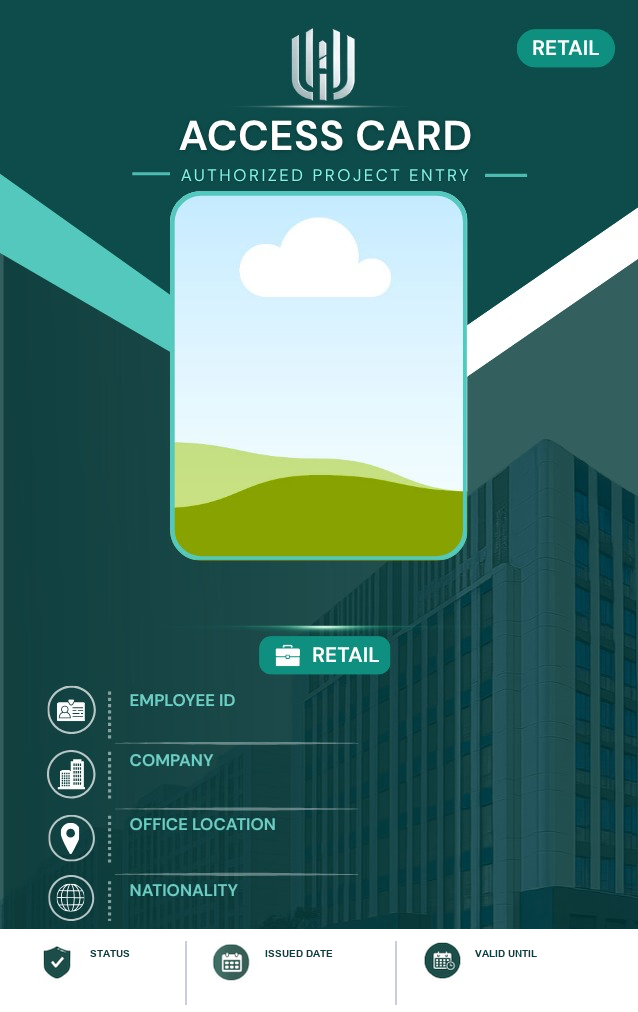
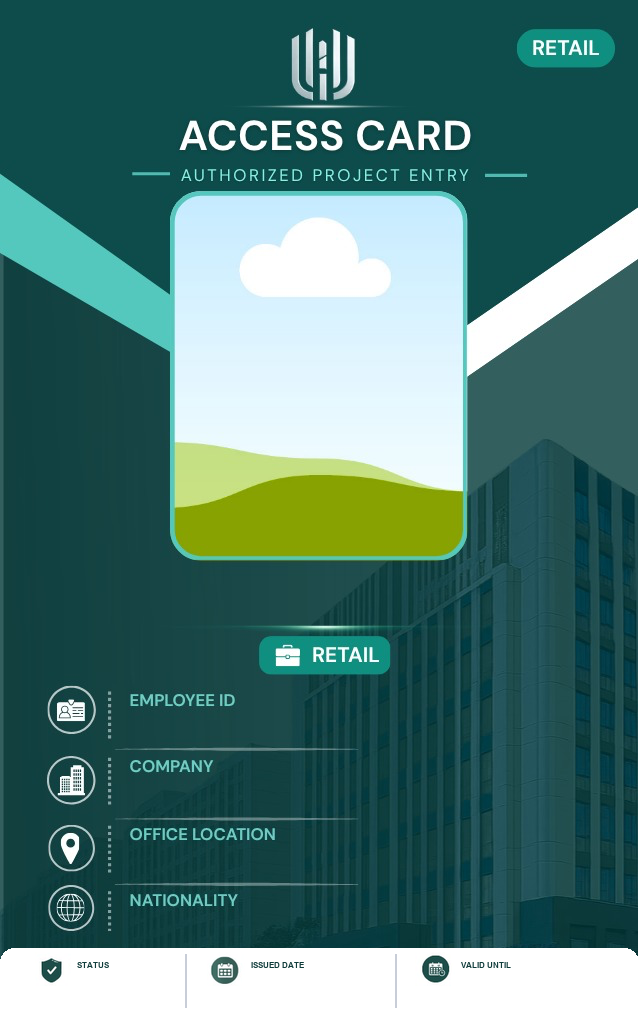
Shrink footer bar to the original single-line bar height
The user pointed at the original raw artwork's bar size as the target
(~6.3% of card height) — smaller than the previous pass's ~8%.

- Field rows (idc2-fv-2/3/4, .fv-2/3/4) go back to their fully
  original, un-compacted positions (78.3/85.0/91.4%) — no longer
  trimmed at all, since the footer no longer needs the extra room
- Footer icons shrink further, down to ~36px, small enough that both
  the baked label and the bold value line fit inside the unchanged
  original bar height (frame still starts ~93.7%)
- Footer value line (idc2-ftv, .ftv) moves to top:97.5%; cqw font
  scaling and left/width unchanged, re-verified clean at 185/300px
- Cache-busting bumped to v=16

diff --git a/frontend/src/pages/main/idcard.css b/frontend/src/pages/main/idcard.css
@@ -391,11 +391,9 @@
 
 /* Field values — Employee ID / Company / Office Location / Nationality,
    each centered in the gap below its baked label and above the next
-   divider line. Rows were pulled closer together on 2026-08-31 (their
-   baked inter-row gaps trimmed slightly) to make room for the two-line
-   footer below, so these moved up a bit from the original
-   71.6/78.3/85.0/91.4% — only the first row didn't shift, since the
-   freed gaps all sit below it. */
+   divider line (rows run label@~69%/~76%/~82%/~89%, dividers @~74%/~81%/~87%).
+   Back to their original, un-compacted positions — the footer below no
+   longer needs the field rows compacted to make room for it. */
 .idc2-fv {
   position: absolute;
   left: 20.5%;
@@ -410,16 +408,17 @@
   text-overflow: ellipsis;
 }
 .idc2-fv-1 { top: 71.6%; } /* Employee ID */
-.idc2-fv-2 { top: 77.8%; } /* Company */
-.idc2-fv-3 { top: 84.1%; } /* Office Location */
-.idc2-fv-4 { top: 90.5%; } /* Nationality */
+.idc2-fv-2 { top: 78.3%; } /* Company */
+.idc2-fv-3 { top: 85.0%; } /* Office Location */
+.idc2-fv-4 { top: 91.4%; } /* Nationality */
 
 /* ── Footer strip — two-line layout (icon + small baked label on top, a
-   bold value line underneath), kept as short as possible: only ~18px of
-   the four field rows' inter-row gaps were trimmed to free room (frame
-   now starts ~91.9% instead of ~93.7%), and the icons were sized back
-   down close to their original ~48-58px so the bar reads close to its
-   original height instead of the much taller first attempt. ── */
+   bold value line underneath) packed into the ORIGINAL bar height (frame
+   starts ~93.7%, same as the single-line design) — the field rows above
+   are no longer compacted at all. Fitting both lines in that unchanged
+   space meant shrinking the footer icons down to ~36px (from ~48-58px in
+   the previous, taller-bar pass), which is as small as they go while
+   still reading clearly as icons. ── */
 .idc2-tpl-footer {
   position: absolute;
   inset: 0;
@@ -428,7 +427,7 @@
 }
 .idc2-ftv {
   position: absolute;
-  top: 96.5%;
+  top: 97.5%;
   transform: translateY(-50%);
   /* cqw, not px: the value's width (idc2-ftv-1/2/3, in %) and this font-size
      both scale with the card's own rendered width, so the text-to-box ratio

diff --git a/frontend/src/utils/cardPrint.js b/frontend/src/utils/cardPrint.js
@@ -5,9 +5,9 @@ const fmtUp = (d) => fmt(d).toUpperCase();
 
 /* ── Template definitions — maps role → card image + overlay colours ── */
 const TEMPLATES = {
-  Staff:      { key:"Staff",      img:"/id-card/IT_STAFF1.png?v=15",    panelBg:"#0c1a30", footBg:"#07101e", photoBorder:"#80bbf5" },
-  Supervisor: { key:"Supervisor", img:"/id-card/supervisor1.png?v=15",  panelBg:"#091e19", footBg:"#05120d", photoBorder:"#55c8be" },
-  Manager:    { key:"Manager",    img:"/id-card/manager1.png?v=15",     panelBg:"#110826", footBg:"#090518", photoBorder:"#b775fb" },
+  Staff:      { key:"Staff",      img:"/id-card/IT_STAFF1.png?v=16",    panelBg:"#0c1a30", footBg:"#07101e", photoBorder:"#80bbf5" },
+  Supervisor: { key:"Supervisor", img:"/id-card/supervisor1.png?v=16",  panelBg:"#091e19", footBg:"#05120d", photoBorder:"#55c8be" },
+  Manager:    { key:"Manager",    img:"/id-card/manager1.png?v=16",     panelBg:"#110826", footBg:"#090518", photoBorder:"#b775fb" },
 };
 
 const TEMPLATE_RULES = [
@@ -207,13 +207,13 @@ body { font-family:'Times New Roman','Saysettha OT',serif; }
   white-space: nowrap; overflow: hidden; text-overflow: ellipsis;
 }
 .fv-1 { top: 71.6%; } /* Employee ID */
-.fv-2 { top: 77.8%; } /* Company */
-.fv-3 { top: 84.1%; } /* Office Location */
-.fv-4 { top: 90.5%; } /* Nationality */
+.fv-2 { top: 78.3%; } /* Company */
+.fv-3 { top: 85.0%; } /* Office Location */
+.fv-4 { top: 91.4%; } /* Nationality */
 
 .ftv {
   position: absolute;
-  top: 96.5%;
+  top: 97.5%;
   transform: translateY(-50%);
   font-size: 6.5px; font-weight: 800; line-height: 1; color: #0c1a30;
   text-align: left; white-space: nowrap; overflow: hidden; text-overflow: ellipsis;
